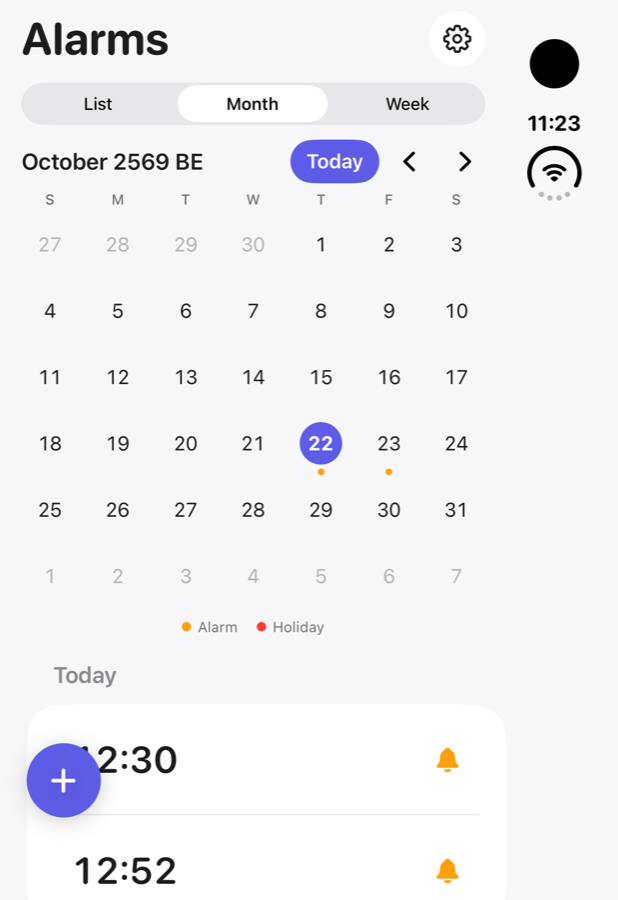
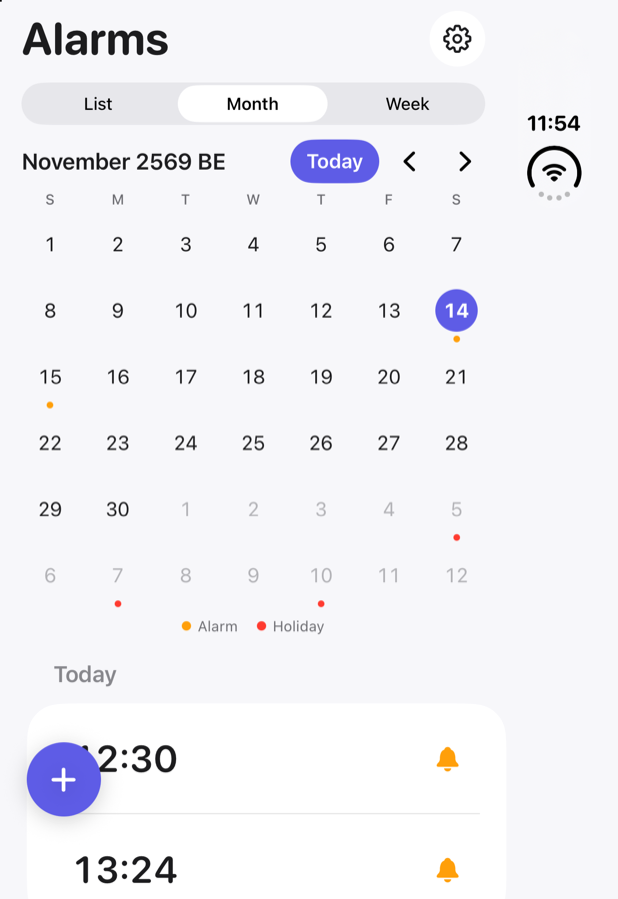
Update README and screenshots for multi-day alarms and iOS sounds
Adds iPhone screenshots of the list, week, new-alarm sheet, sound list,
and settings, and retakes the Month and iPhone Duo closed shots. Tapping
a day now centers its alarms so the day header stays visible.

diff --git a/calendar-alarm/Views/AlarmsView.swift b/calendar-alarm/Views/AlarmsView.swift
@@ -336,7 +336,8 @@ struct AlarmsView: View {
             .onChange(of: selectedDay) { _, newDay in
                 // Tapping a day in the grid brings its alarms into view.
                 guard let first = periodSections.first(where: { $0.dayStart == newDay })?.items.first else { return }
-                withAnimation { proxy.scrollTo(first.id, anchor: .top) }
+                // Centered, so the day's header above the row stays visible.
+                withAnimation { proxy.scrollTo(first.id, anchor: .center) }
             }
         }
 

diff --git a/README.md b/README.md
@@ -8,12 +8,22 @@ Create an alarm by picking a time — that's it. Alarms ring through the system 
 
 <table>
   <tr>
-    <td align="center"><img src="docs/screenshots/iphone-month.png" width="220" alt="Month view on iPhone"><br>iPhone — Month</td>
-    <td align="center"><img src="docs/screenshots/duo-closed-month.png" width="260" alt="Month view on iPhone Duo outer display"><br>iPhone Duo closed — Month</td>
+    <td align="center"><img src="docs/screenshots/iphone-list.png" width="220" alt="List view on iPhone"><br>List</td>
+    <td align="center"><img src="docs/screenshots/iphone-month.png" width="220" alt="Month view on iPhone"><br>Month</td>
+    <td align="center"><img src="docs/screenshots/iphone-week.png" width="220" alt="Week view on iPhone"><br>Week</td>
+  </tr>
+  <tr>
+    <td align="center"><img src="docs/screenshots/iphone-new-alarm.png" width="220" alt="New alarm sheet with several days picked"><br>New alarm — several days</td>
+    <td align="center"><img src="docs/screenshots/iphone-sounds.png" width="220" alt="Sound list with app and iOS sounds"><br>Sounds</td>
+    <td align="center"><img src="docs/screenshots/iphone-settings.png" width="220" alt="Settings with default time and sound"><br>Settings</td>
   </tr>
 </table>
 
-iPhone Duo open (inner display) — calendar beside the selected day's alarms:
+iPhone Duo closed (outer display):
+
+<img src="docs/screenshots/duo-closed-month.png" width="260" alt="Month view on iPhone Duo outer display">
+
+iPhone Duo open (inner display) — calendar beside the alarm list:
 
 <img src="docs/screenshots/duo-open-month.png" width="640" alt="Month view on iPhone Duo inner display">
 
@@ -26,11 +36,12 @@ iPhone Duo open (inner display) — calendar beside the selected day's alarms:
 
 ## Features
 
-- **Alarms** — one-shot alarms with a wheel time picker; fires at the next occurrence of that time-of-day, or on any day you pick from the calendar. Edit, delete (swipe), snooze 5 minutes.
-- **Calendar views** — List / Month / Week modes with swipe navigation. Days with alarms show an orange dot; the selected day's alarms are listed under the grid.
-- **Thai holidays** — red dots + a holiday list under the selected day. Holidays come from the device's holiday calendars (EventKit) and fall back to Google's public Thai holidays ICS feed when none exist. Tap a holiday to set an alarm for that day.
-- **Custom alarm sounds** — three bundled sounds (Chime / Beep / Rise) plus the ringtones and alert tones that ship with iOS, with tap-to-preview. Pick one per alarm, or set a default for new alarms in Settings. - **Default alarm time** — an optional time-of-day in Settings that new alarms start from.
-- **Several days at once** — the add sheet has a multi-select calendar; one alarm is created per picked day. Editing an alarm can move it to another day.
+- **Alarms** — one-shot alarms with a wheel time picker. Edit (time, day, sound), delete (swipe), snooze 5 minutes.
+- **Several days at once** — the add sheet has a calendar where you tap any number of days; one alarm is created per picked day. Days that already have alarms or are holidays show their dots while you pick.
+- **Calendar views** — List / Month / Week modes with swipe navigation. Days with alarms show an orange dot. Month and Week list every alarm in the visible month or week, grouped by day; tapping a day scrolls to its alarms.
+- **Thai holidays** — red dots + a holiday list for the selected day. Holidays come from the device's holiday calendars (EventKit) and fall back to Google's public Thai holidays ICS feed when none exist. Tap a holiday to set an alarm for that day.
+- **Alarm sounds** — three bundled sounds (Chime / Beep / Rise) plus the ringtones and alert tones that ship with iOS, with tap-to-preview. Pick one per alarm.
+- **Defaults for new alarms** — Settings holds a default sound and an optional default time-of-day. Both can still be changed per alarm; Siri-created alarms use the default sound.
 - **Theme** — System / Light / Dark.
 - **Language** — English / Thai, switchable in-app (month and weekday names included).
 - **Add button position** — left or right, your choice.
@@ -83,10 +94,10 @@ calendar-alarm/
 │   └── AlarmsViewModel.swift      # single source of state for the alarm list
 ├── Views/
 │   ├── AlarmsView.swift           # main screen: list / month / week modes
-│   ├── CalendarGridView.swift     # calendar header + page grid
+│   ├── CalendarGridView.swift     # calendar header + page grid + dot legend (shared with the alarm sheet)
 │   ├── AlarmEditSheet.swift       # add/edit sheet (time, days, sound)
 │   ├── SoundPickerView.swift      # sound list with preview (bundled + iOS sounds)
-│   ├── SettingsSheet.swift        # theme / language / add-button side
+│   ├── SettingsSheet.swift        # theme / language / default time + sound / add-button side
 │   └── ...
 ├── Support/
 │   ├── CalendarGrid.swift         # pure month/week day math (firstWeekday-aware)
@@ -104,7 +115,9 @@ Key decisions:
 - **Alarm sounds must be CAF and the name passed to `AlertSound.named` must include the `.caf` extension** — the daemon resolves the name literally against the app container's `Library/Sounds`; anything else silently falls back to the default sound.
 - **Holiday sources** — `HolidayService` picks one provider per session: EventKit (subscribed/holiday calendars) if it yields results, otherwise the ICS feed (`ICSHolidayProvider`, RFC-5545 parsing, 7-day JSON cache in Application Support, stale cache served offline).
 - **Calendar paging** — a page-style `TabView` (±1 year of months / ±26 weeks) so the grid tracks the finger; the pager height is seeded from `@ScaledMetric` values and self-corrects from the page's measured layout height.
-- **Mode switching** — List → Month → Week by horizontal swipe or the segmented control, with a direction-aware slide transition.
+- **iOS sounds are copied on use** — AlarmKit can't play a system file in place, so a picked iOS sound is copied (ringtones are decoded to CAF) into `Library/Sounds` when its alarm is scheduled. Its stored name is `ios-<file name>`; sounds under one second are left out of the list.
+- **Mode switching** — List → Month → Week by horizontal swipe or the segmented control, with a direction-aware slide transition. A swipe that starts on an alarm row is left to the row's swipe-to-delete.
+- **Sheets are full height** — partial-height sheets float inset with rounded bottom corners on iOS 26+, so the alarm and settings sheets use the default large detent.
 
 ## iPhone Duo & wide windows
 
@@ -112,7 +125,7 @@ The app stays iPhone-only (`TARGETED_DEVICE_FAMILY = 1`) but adapts to the iPhon
 
 Layout rules:
 
-- **Decide layout from available space** — `AlarmsView` measures its width with `onGeometryChange`; at 600pt or wider, Month/Week show the calendar beside the selected day's list. Never use `UIScreen.main`, `userInterfaceIdiom`, interface orientation, or device sizes — the app is resized mid-session when iPhone Duo opens, closes, or folds.
+- **Decide layout from available space** — `AlarmsView` measures its width with `onGeometryChange`; at 600pt or wider, Month/Week show the calendar beside the alarm list. Never use `UIScreen.main`, `userInterfaceIdiom`, interface orientation, or device sizes — the app is resized mid-session when iPhone Duo opens, closes, or folds.
 - **`ArrangementView` is iOS 27.1+** — it splits the calendar and list along the fold. Keep the `HStack` fallback for older iOS (deployment target is still 26.1), and don't place an `ArrangementView` inside a `List` or `ScrollView`.
 - **Build with Xcode 27.1+** — older SDKs leave the app short of the status bar and camera on the inner display.
 
